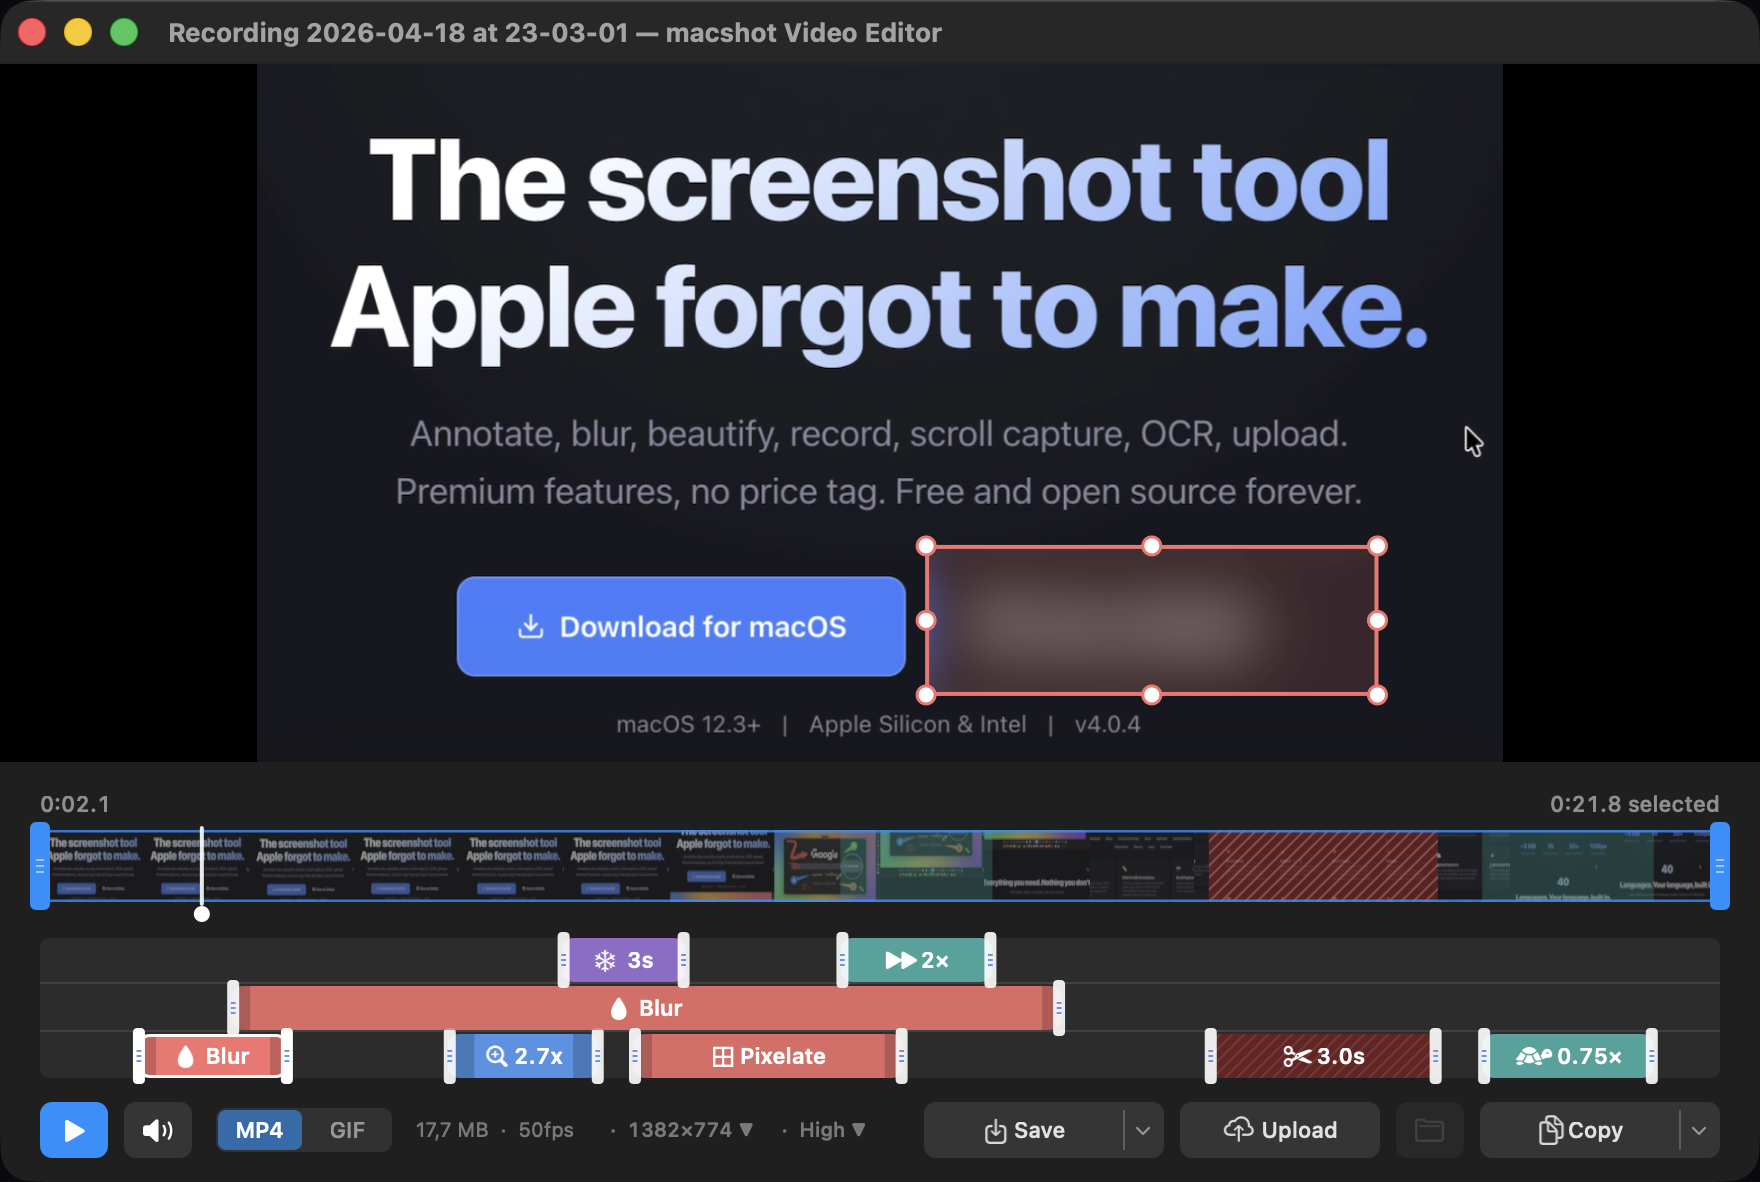
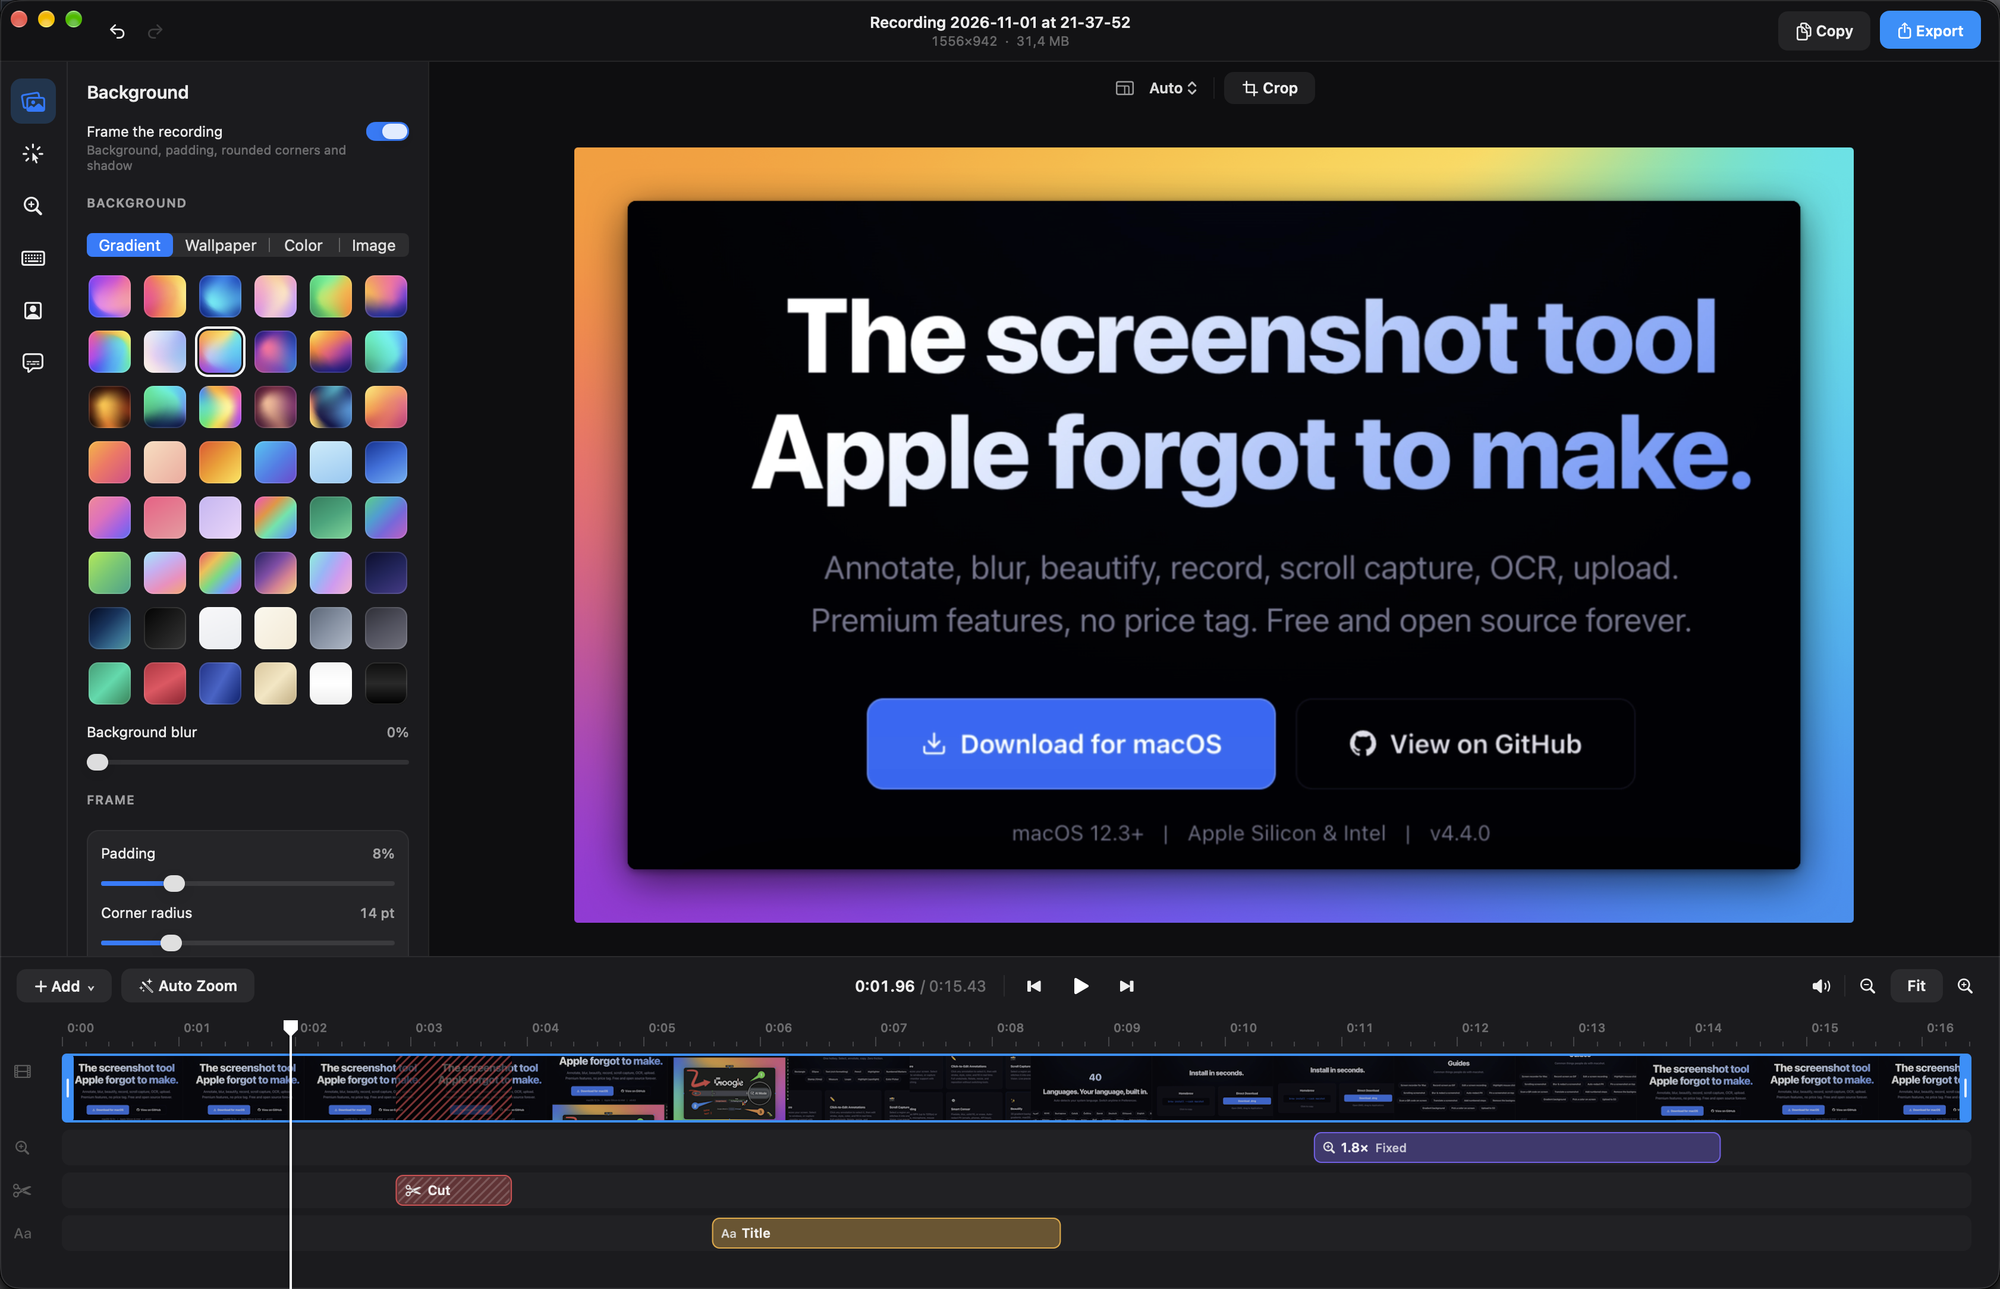
README: show the new Studio video editor

diff --git a/README.md b/README.md
@@ -23,7 +23,7 @@
 </p>
 
 <p align="center">
-  <img src="assets/preview-editor.png" alt="macshot video editor — timeline with cut, speed, freeze, zoom and censor effects" width="700"/>
+  <img src="assets/preview-editor.png" alt="macshot Studio video editor — background, pointer, zoom, keystrokes, camera and captions, with a timeline for zooms, cuts and titles" width="700"/>
 </p>
 
 ---
